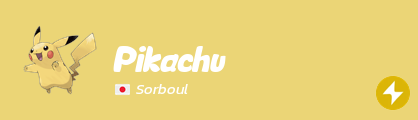
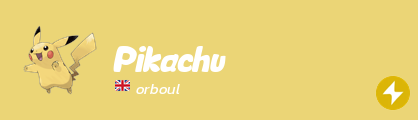
updated flags

Changed region(s): [[0.2488, 0.65, 0.4665, 0.8]]

diff --git a/utils/events/poketwo_spawns.py b/utils/events/poketwo_spawns.py
@@ -172,6 +172,7 @@ class PokemonUtils:
             logger.warning(f"Failed to get image color: {e}")
             return fallback
 
+
 class PokemonImageBuilder:
     def __init__(self):
         self.config_path = "data/events/poketwo_spawns/image/config.json"
@@ -357,12 +358,13 @@ class PokemonImageBuilder:
 
 
 
+
 if __name__ == "__main__":
     builder = PokemonImageBuilder()
     builder.create_image(
         pokemon_id=25,
         pokemon_name="Pikachu",
-        best_name="{flag_jp} Sorboul",
+        best_name="🇬🇧 orboul",
         types=["electric"],
         bg_url=None,
         filename="test.png"
